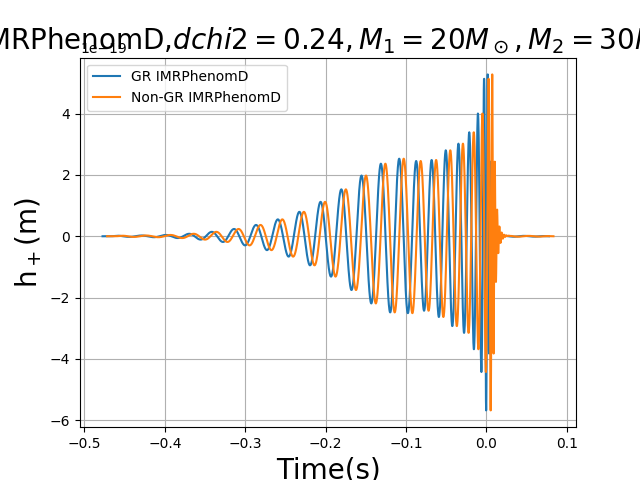
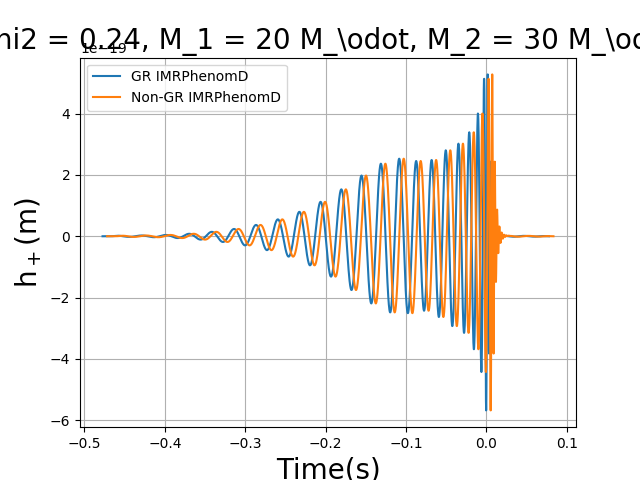
Changing the title of the images

Changed region(s): [[0.0, 0.0312, 1.0, 0.125]]

diff --git a/nonGR_IMRPhenomD.py b/nonGR_IMRPhenomD.py
@@ -90,7 +90,7 @@ for nonGR in nGR:
 	plt.plot(sp.sample_times, hp, label = 'Non-GR IMRPhenomD')
 	plt.xlabel('Time(s)', fontsize = 20)
 	plt.ylabel('h$_+$(m)', fontsize = 20)
-	plt.title(('IMRPhenomD,$ %s = %.2f, M_1 = 20 M_\odot, M_2 = 30 M_\odot$'%(nonGR,j)), fontsize = 20)	
+	plt.title(('%s = %.2f, M_1 = 20 M_\odot, M_2 = 30 M_\odot$'%(nonGR,j)), fontsize = 20)	
 	plt.legend(loc = 'best')
 	plt.grid()
 	plt.savefig('%s'%nonGR+'.png')
